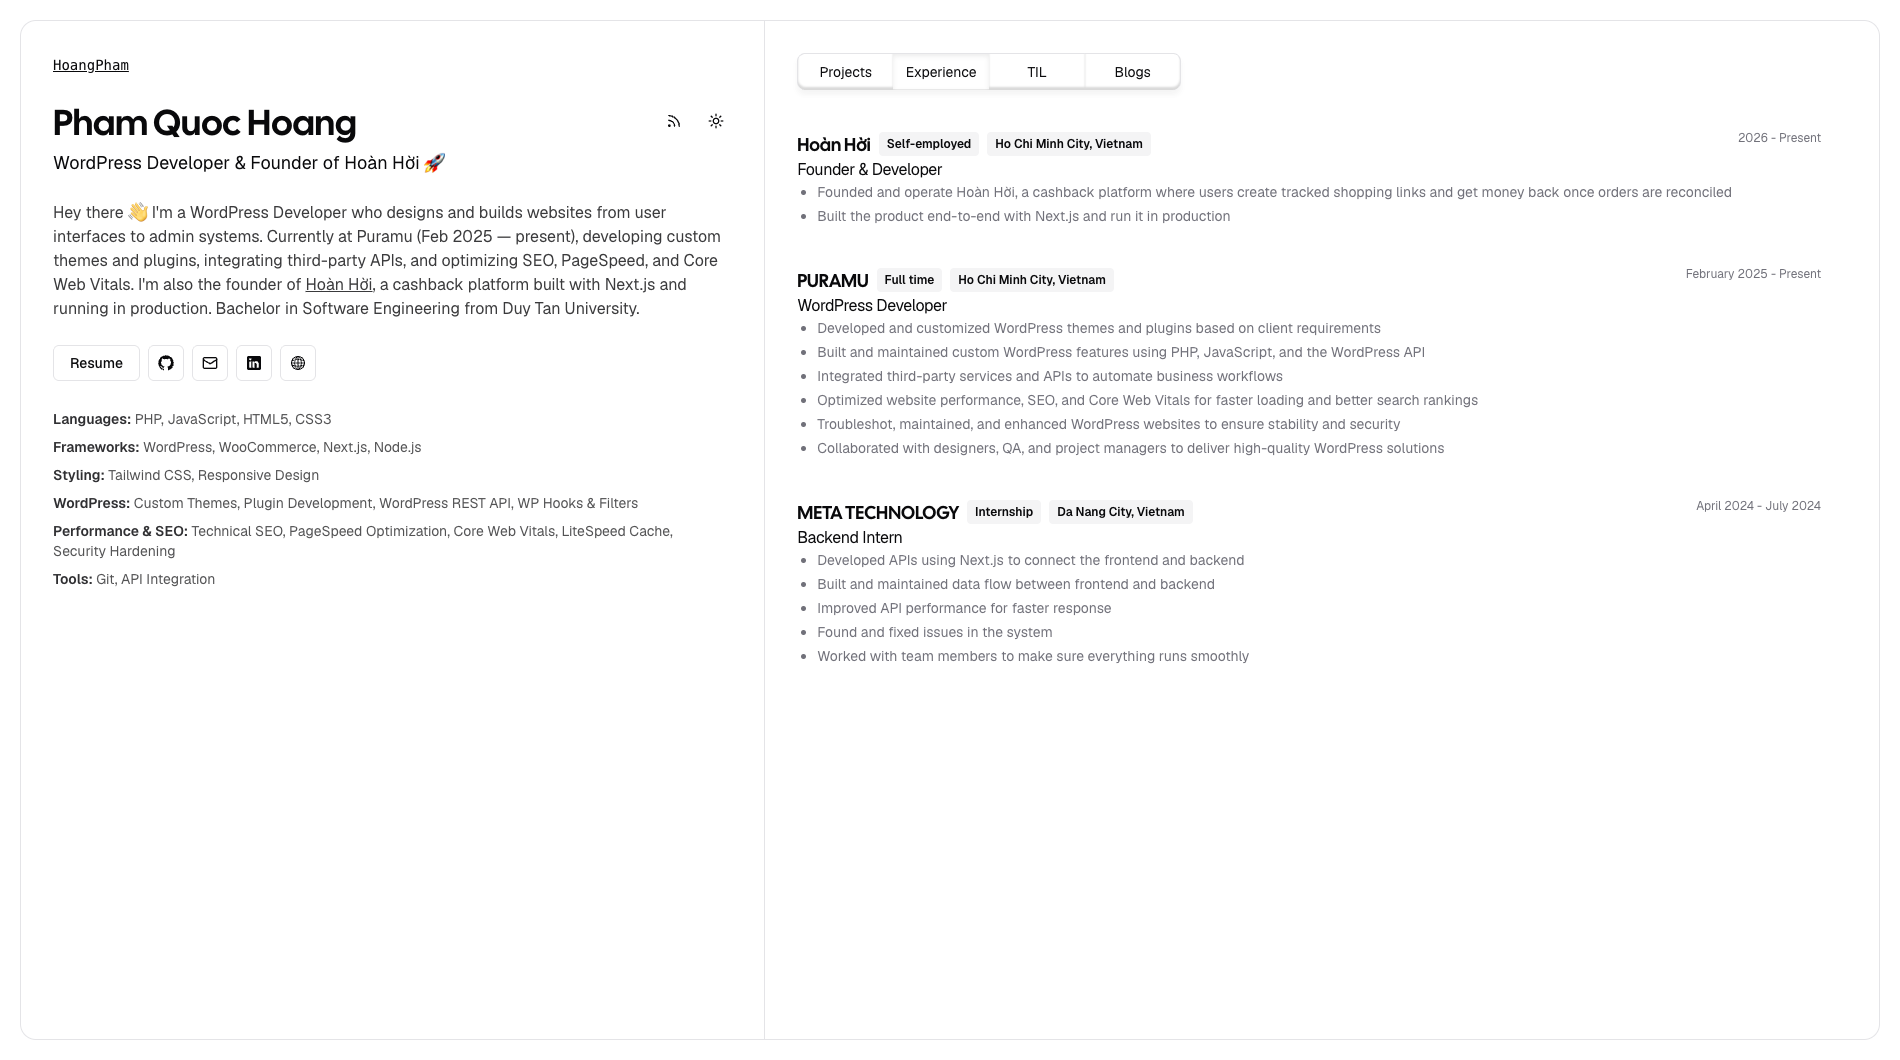
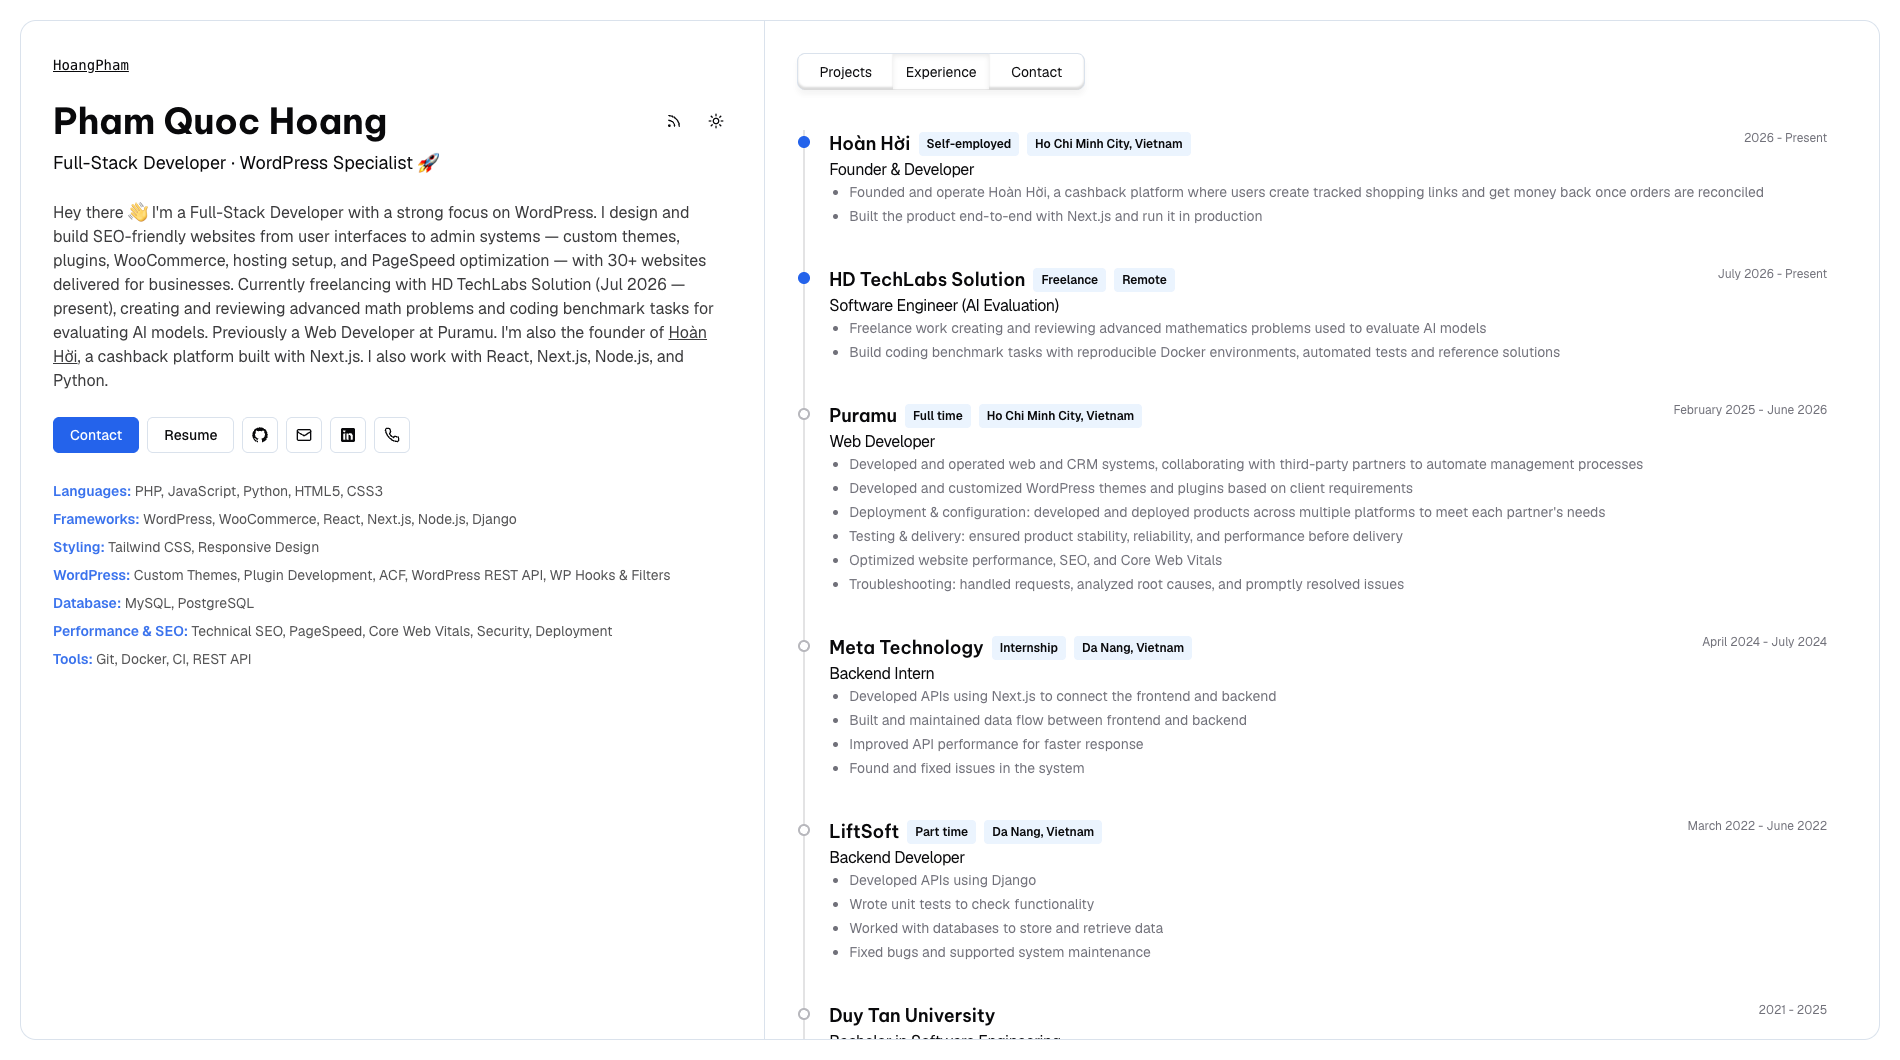
feat: personal portfolio redesign; remove services and hire CTAs

diff --git a/src/styles/globals.css b/src/styles/globals.css
@@ -13,19 +13,19 @@ body {
     --card-foreground: 240 10% 3.9%;
     --popover: 0 0% 100%;
     --popover-foreground: 240 10% 3.9%;
-    --primary: 240 5.9% 10%;
-    --primary-foreground: 0 0% 98%;
-    --secondary: 240 4.8% 95.9%;
-    --secondary-foreground: 240 5.9% 10%;
+    --primary: 221 83% 53%;
+    --primary-foreground: 0 0% 100%;
+    --secondary: 214 95% 96%;
+    --secondary-foreground: 222 47% 20%;
     --muted: 240 4.8% 95.9%;
     --muted-foreground: 240 3.8% 46.1%;
-    --accent: 240 4.8% 95.9%;
-    --accent-foreground: 240 5.9% 10%;
+    --accent: 214 95% 96%;
+    --accent-foreground: 222 47% 20%;
     --destructive: 0 84.2% 60.2%;
     --destructive-foreground: 0 0% 98%;
-    --border: 240 5.9% 90%;
-    --input: 240 5.9% 90%;
-    --ring: 240 10% 3.9%;
+    --border: 214 32% 89%;
+    --input: 214 32% 89%;
+    --ring: 221 83% 53%;
     --chart-1: 12 76% 61%;
     --chart-2: 173 58% 39%;
     --chart-3: 197 37% 24%;
@@ -67,25 +67,25 @@ body {
     --radius: 0.5rem;
   }
   .dark {
-    --background: 240 10% 3.9%;
+    --background: 222 47% 6%;
     --foreground: 0 0% 98%;
-    --card: 240 10% 3.9%;
+    --card: 222 47% 6%;
     --card-foreground: 0 0% 98%;
-    --popover: 240 10% 3.9%;
+    --popover: 222 47% 6%;
     --popover-foreground: 0 0% 98%;
-    --primary: 0 0% 98%;
-    --primary-foreground: 240 5.9% 10%;
-    --secondary: 240 3.7% 15.9%;
-    --secondary-foreground: 0 0% 98%;
+    --primary: 213 94% 68%;
+    --primary-foreground: 222 47% 11%;
+    --secondary: 217 33% 17%;
+    --secondary-foreground: 210 40% 98%;
     --muted: 240 3.7% 15.9%;
     --muted-foreground: 240 5% 64.9%;
-    --accent: 240 3.7% 15.9%;
-    --accent-foreground: 0 0% 98%;
+    --accent: 217 33% 17%;
+    --accent-foreground: 210 40% 98%;
     --destructive: 0 62.8% 30.6%;
     --destructive-foreground: 0 0% 98%;
-    --border: 240 3.7% 15.9%;
-    --input: 240 3.7% 15.9%;
-    --ring: 240 4.9% 83.9%;
+    --border: 217 25% 20%;
+    --input: 217 25% 20%;
+    --ring: 213 94% 68%;
     --chart-1: 220 70% 50%;
     --chart-2: 160 60% 45%;
     --chart-3: 30 80% 55%;

diff --git a/src/components/socials.tsx b/src/components/socials.tsx
@@ -2,7 +2,6 @@ import { Button } from "@/components/ui/button";
 import { IconMap } from "@/components/icon-map";
 import { portfolioConfig } from "@/config/portfolio.config";
 import Link from "next/link";
-import { Calendar } from "lucide-react";
 
 export const Socials = () => {
   return (
@@ -11,20 +10,7 @@ export const Socials = () => {
         className="shadow-none hover:bg-background hover:text-primary border-[0.3px] border-transparent hover:border-b-4 hover:border-primary/30 active:border-b transition-all"
         asChild
       >
-        <a href={portfolioConfig.schedule} target="_blank" rel="noopener noreferrer">
-          Schedule a call
-        </a>
-      </Button>
-      <Button
-        className="group/cal fixed z-50 bottom-5 right-5 w-12 h-12 rounded-full hover:px-4 hover:w-auto p-2 duration-300 transition-all ease-out"
-        asChild
-      >
-        <a href={portfolioConfig.schedule} target="_blank" rel="noopener noreferrer">
-          <div className="flex items-center gap-2">
-            <p className="group-hover/cal:block hidden duration-300 transition-all ease-out">Book a call</p>
-            <Calendar strokeWidth={1} />
-          </div>
-        </a>
+        <Link href="/contact">Contact</Link>
       </Button>
       <Button
         variant="outline"

diff --git a/src/app/(landing)/contact/page.tsx b/src/app/(landing)/contact/page.tsx
@@ -5,7 +5,7 @@ import { siteConfig } from "@/config/site.config";
 
 export const metadata: Metadata = {
   title: `Contact | ${siteConfig.creator.name}`,
-  description: "Have a project in mind? Get in touch via Zalo, email or phone.",
+  description: "Get in touch with Pham Quoc Hoang via email, Zalo or LinkedIn.",
 };
 
 const contacts = [
@@ -21,8 +21,8 @@ export default function ContactPage() {
   return (
     <div className="w-full max-w-5xl mt-10">
       <p className="text-sm text-muted-foreground max-w-2xl">
-        Have a project in mind? I&apos;d love to hear about it. Message me on Zalo for the fastest reply, or send an
-        email with your project details and I&apos;ll get back to you as soon as possible.
+        Want to talk about WordPress, web performance, or one of my projects? Feel free to reach out — I&apos;m happy to
+        connect with fellow developers.
       </p>
       <div className="mt-8 grid sm:grid-cols-2 gap-3">
         {contacts.map((c) => {

diff --git a/src/config/resume.config.ts b/src/config/resume.config.ts
@@ -4,7 +4,7 @@ export const resumeConfig = {
   photo: "/resume/me.webp",
   intro: [
     "Hi! I am Hoang, a Web Developer with a strong focus on WordPress. I build and customize WordPress websites, including themes, plugins, hosting setup, and styling with Tailwind CSS.",
-    "I also have experience working with React.js, Next.js, and Node.js for more advanced features. In addition, I use Python for data crawling and automation tasks when needed. I am currently available for new projects.",
+    "I also have experience working with React.js, Next.js, and Node.js for more advanced features. In addition, I use Python for data crawling and automation tasks when needed.",
   ],
   contacts: [
     { icon: "address", label: "Address", value: "Ho Chi Minh City, Vietnam" },

diff --git a/src/app/layout.tsx b/src/app/layout.tsx
@@ -4,16 +4,16 @@ import { cn } from "@/lib/utils";
 import "@/styles/code.css";
 import "@/styles/globals.css";
 import type { Metadata } from "next";
-import { Geist } from "next/font/google";
-import localFont from "next/font/local";
+import { Be_Vietnam_Pro, Geist } from "next/font/google";
 
 const fontSans = Geist({
   subsets: ["latin"],
   variable: "--font-sans",
 });
 
-const fontHeading = localFont({
-  src: "../../public/fonts/CalSans-SemiBold.woff2",
+const fontHeading = Be_Vietnam_Pro({
+  subsets: ["latin", "vietnamese"],
+  weight: ["600", "700"],
   variable: "--font-heading",
 });
 

diff --git a/src/config/portfolio.config.ts b/src/config/portfolio.config.ts
@@ -4,7 +4,6 @@ export const portfolioConfig: Portfolio = {
   name: "Pham Quoc Hoang",
   tagline: "Full-Stack Developer · WordPress Specialist 🚀",
   resume: "/cv",
-  schedule: "https://zalo.me/0971955144",
   links: {
     github: "https://github.com/hoangpham2263",
     mail: "mailto:hoangpham2263@gmail.com",

diff --git a/src/types/index.d.ts b/src/types/index.d.ts
@@ -25,7 +25,6 @@ export type Portfolio = {
   name: string;
   tagline: string;
   resume: string;
-  schedule: string;
   links: Partial<Record<"github" | "linkedin" | "mail" | "phone" | "facebook" | "website" | "twitter" | "instagram", string>>;
 }
 

diff --git a/src/config/navbar.config.ts b/src/config/navbar.config.ts
@@ -10,10 +10,6 @@ export const navbarConfig: NavItem[] = [
     url: "/experience"
   },
   {
-    title: "Services",
-    url: "/services"
-  },
-  {
     title: "Contact",
     url: "/contact",
   },
